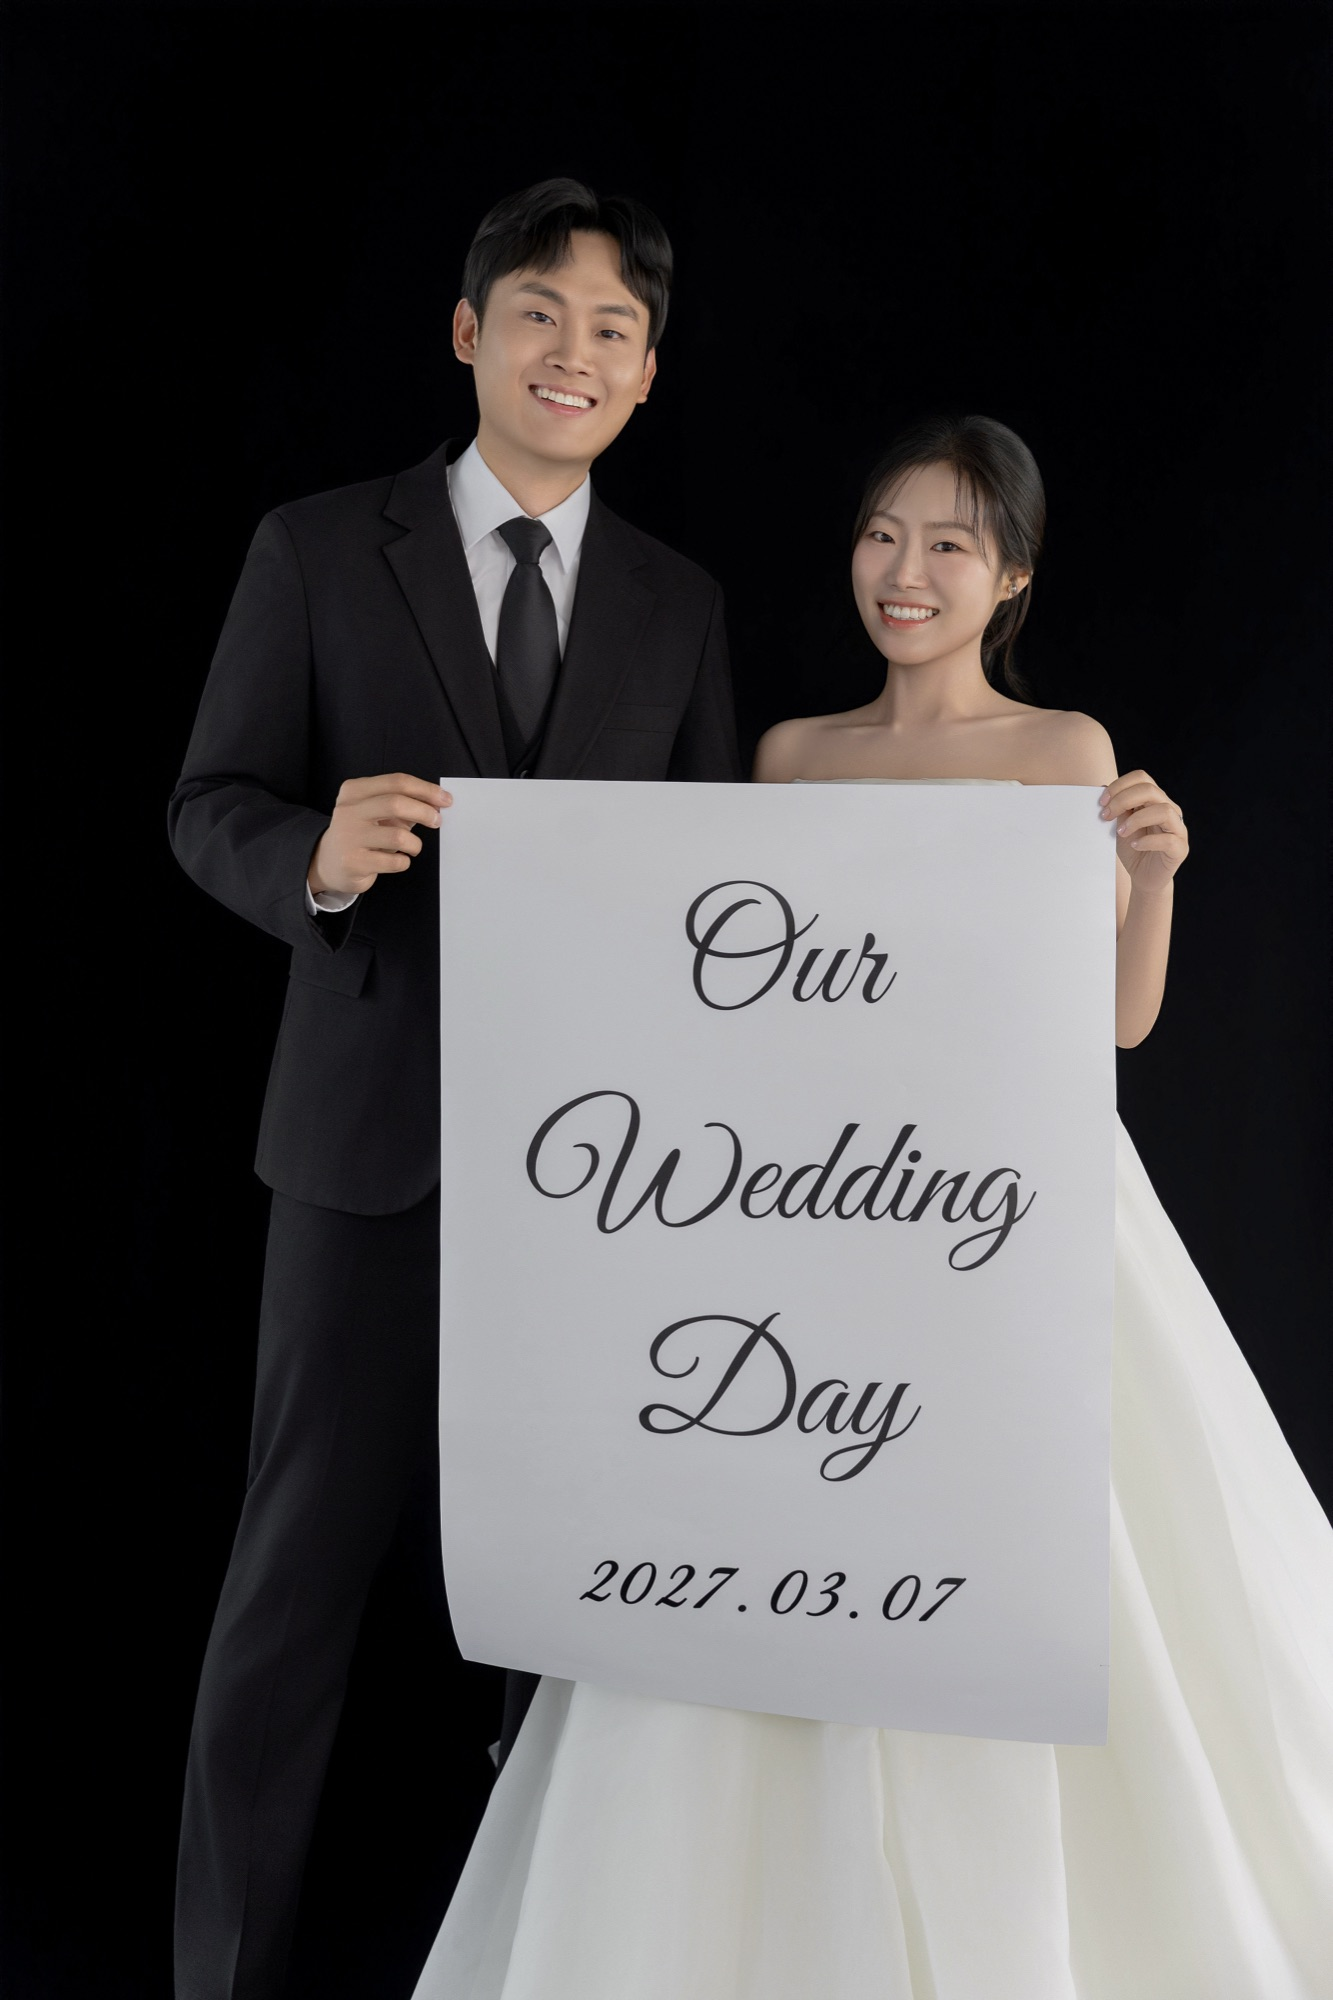
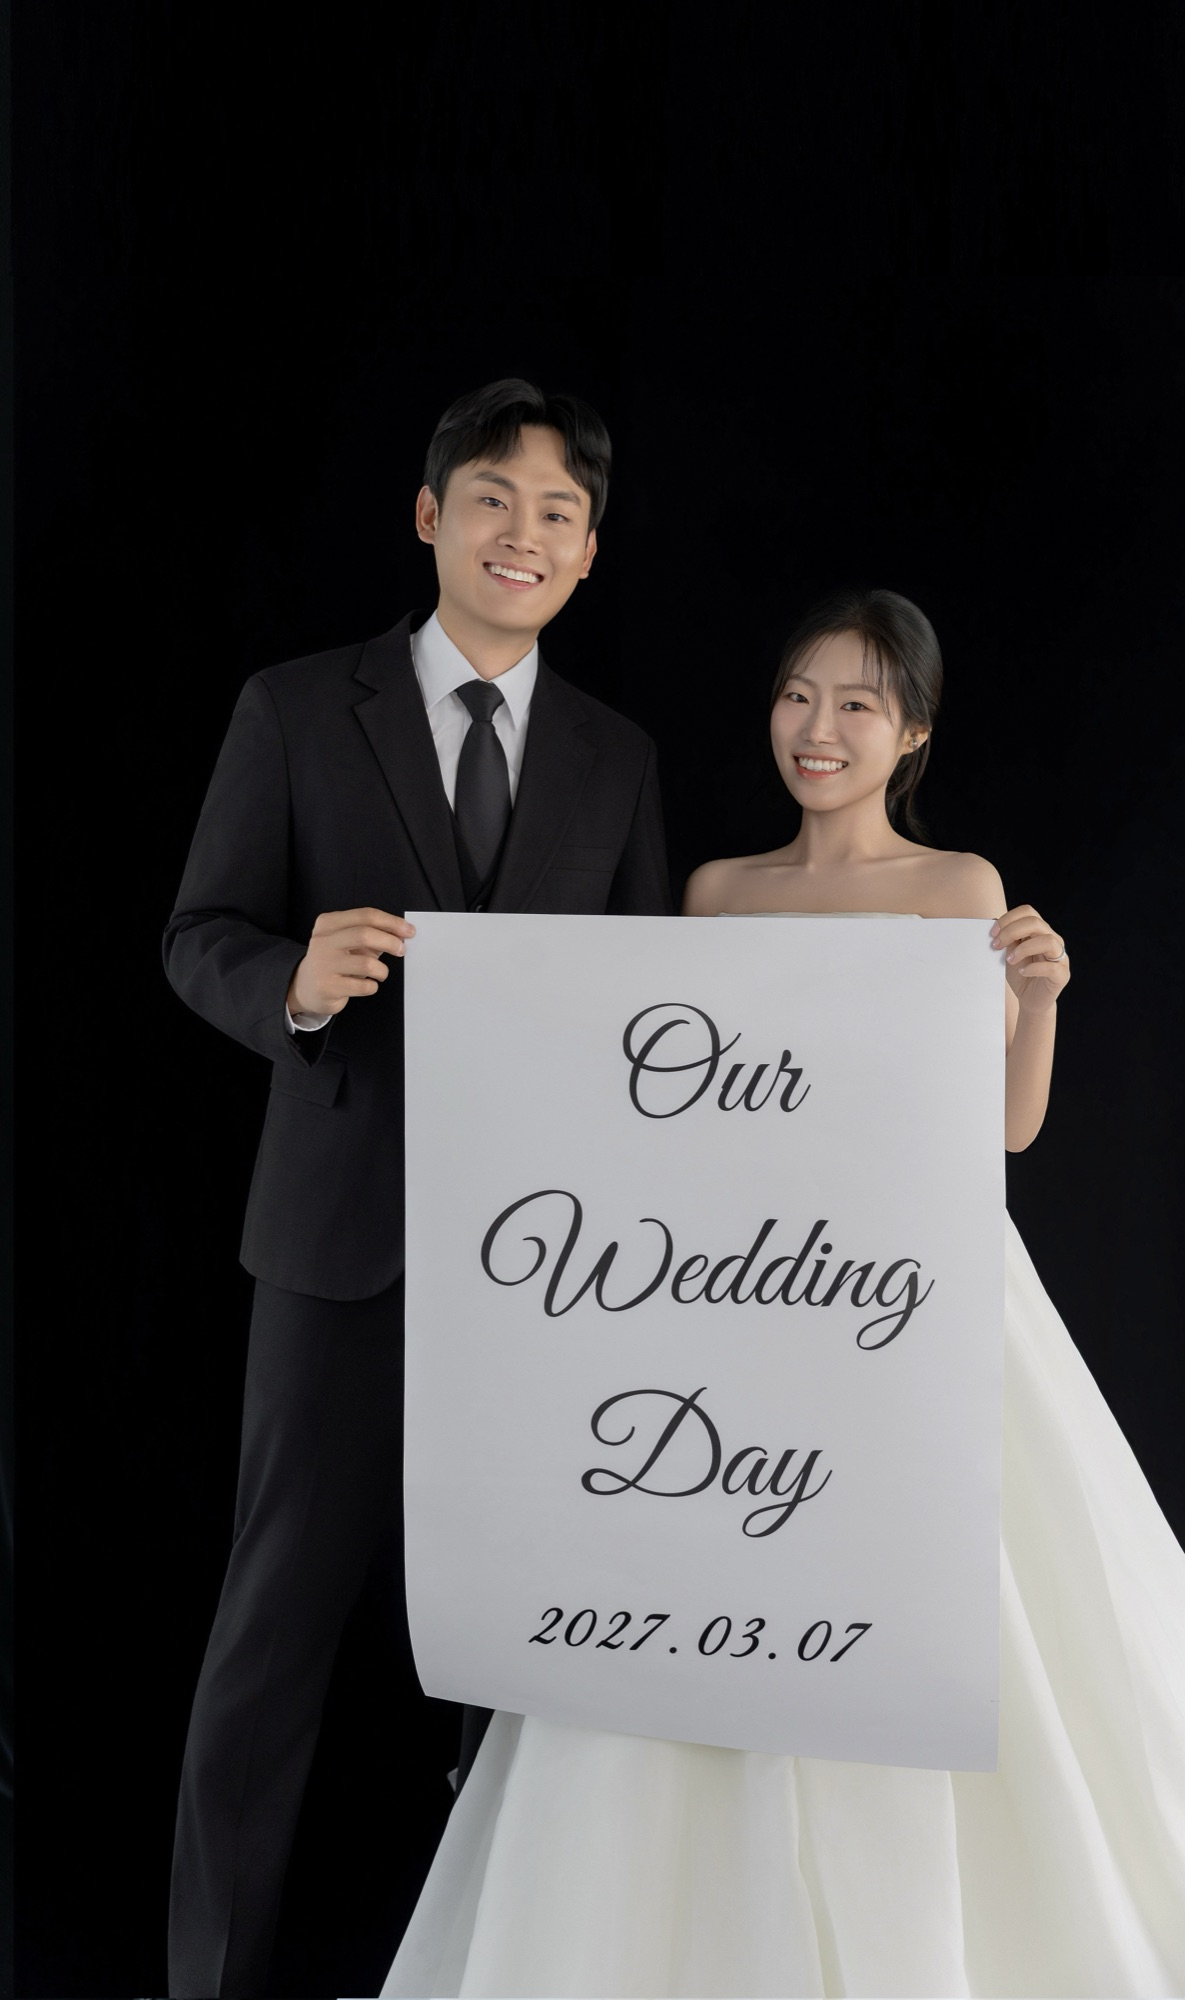
v1.7

diff --git a/styles.css b/styles.css
@@ -453,69 +453,104 @@ a {
 /* ═══════════════════════════════════════════
    Hero Section
    ═══════════════════════════════════════════ */
+/* 커버: 다른 섹션과 같은 배경 + 아치형 사진 */
 .hero {
   position: relative;
   /* svh: 주소창이 보이는 상태 기준 높이 → 스크롤 시 높이가 출렁이지 않음 */
   min-height: 100vh;
   min-height: 100svh;
   display: flex;
+  padding: 0;
+  background:
+    radial-gradient(ellipse 300px 200px at 10% 20%, rgba(139,158,126,0.08) 0%, transparent 70%),
+    radial-gradient(ellipse 250px 180px at 90% 80%, rgba(139,158,126,0.06) 0%, transparent 70%),
+    var(--color-warm-white);
+  overflow: hidden;
+  /* 밝은 배경이라 흰 글자 대신 섹션 제목과 같은 짙은 초록 */
+  color: var(--color-forest);
+}
+
+.hero__card {
+  position: relative;
+  width: 100%;
+  max-width: 400px;                /* 기준 폭 약 400px, 가운데 정렬 */
+  margin: 0 auto;
+  display: flex;
   flex-direction: column;
   align-items: center;
-  justify-content: flex-end;
-  padding: 0;
-  overflow: hidden;
-  background-color: var(--color-forest-dark);
+  justify-content: flex-start;
+  padding: var(--safe-top) var(--safe-right) var(--safe-bottom) var(--safe-left);
+}
+
+/* 남는 세로 공간은 위(제목 영역) 1 : 아래 2로 나눔 → 아래 공백 몫 */
+.hero__card::after {
+  content: '';
+  flex: 2 1 0;
+}
+
+/* 마루부리 굵은 글꼴: 네이버 CSS는 'MaruBuriBold'라는 별도 이름으로만 제공하므로
+   'MaruBuri' + font-weight 700 으로도 진짜 Bold 파일이 쓰이도록 연결 (가짜 굵기 방지) */
+@font-face {
+  font-family: 'MaruBuri';
+  font-weight: 700;
+  font-display: swap;
+  src: url(https://hangeul.pstatic.net/hangeul_static/webfont/MaruBuri/MaruBuri-Bold.woff2) format('woff2'),
+       url(https://hangeul.pstatic.net/hangeul_static/webfont/MaruBuri/MaruBuri-Bold.woff) format('woff');
+}
+
+/* 2. 타이틀 */
+.hero__title {
+  /* 'Happy Time'은 글꼴 파일이 없어 현재는 마루부리(네이버 CDN)로 표시됨 */
+  font-family: 'Happy Time', 'MaruBuri', serif;
+  font-style: italic;
+  font-size: 14px;
+  font-weight: 700;
+  letter-spacing: 0.6em;
+  text-indent: 0.6em;   /* 마지막 글자 뒤 간격만큼 앞을 밀어 가운데 정렬 보정 */
+  line-height: 1.3;
+  text-align: center;
+  white-space: nowrap;
+  /* 제목 영역 = 히어로 맨 위 ~ 아치형 사진 맨 위.
+     이 영역 세로 가운데에 글자를 두어, 항상 두 지점의 정확히 중간에 위치 */
+  flex: 1 1 0;
+  min-height: 6.5rem;         /* 제목 영역 최소 높이 (휴대폰에서는 보통 이 값이 적용됨) */
+  width: 100%;
+  display: flex;
+  align-items: center;
+  justify-content: center;
+}
+
+/* 3. 아치형 사진 */
+.hero__figure {
+  position: relative;
+  width: 100%;
+  display: flex;
+  justify-content: center;
 }
 
 .hero__photo {
-  position: absolute;
-  inset: 0;
-  width: 100%;
-  height: 100%;
-  object-fit: cover;
-  object-position: center 30%;
+  display: block;
+  width: 85%;
+  /* 항상 사진 파일의 원본 비율 그대로 (자르거나 늘리지 않음).
+     auto 2/3: 사진을 불러오기 전에만 2:3으로 자리를 잡아 두고, 불러온 뒤엔 실제 비율 사용 */
+  height: auto;
+  aspect-ratio: auto 2 / 3;
+  /* 위쪽 반원 + 아래 직각. 아주 큰 값을 주면 브라우저가 폭의 절반으로 줄여 적용하므로
+     사진 비율이 바뀌어도 항상 정확한 반원이 됨 */
+  border-radius: 9999px 9999px 0 0;
+  background: rgba(255, 255, 255, 0.15);
 }
 
-/* 상단 좌·우 작은 문구 */
-.hero__top {
-  position: absolute;
-  top: calc(1rem + var(--safe-top));
-  left: calc(var(--gutter) + var(--safe-left));
-  right: calc(var(--gutter) + var(--safe-right));
-  z-index: 2;
-  display: flex;
-  justify-content: flex-end;   /* 우측 상단 정렬 */
-  font-family: var(--font-square);
-  font-size: 0.9375rem;
-  font-weight: 300;
-  letter-spacing: 2px;
-  line-height: 1.6;
-  color: var(--color-white);
-  text-shadow: 0 1px 6px rgba(0, 0, 0, 0.35);
-  pointer-events: none;
-  /* 스크롤 감지(IntersectionObserver) 대신 로드 시 바로 나타나는 애니메이션.
-     화면 맨 위에 붙어 있어 감지 방식은 기기에 따라 끝까지 안 보일 수 있음 */
-  animation: hero-top-in 0.8s ease 0.2s both;
+/* 5. 하단 정보 */
+.hero__info {
+  margin-top: 30px;
+  font-family: var(--font-serif);   /* 인사말과 같은 글꼴 (Noto Serif KR) */
+  font-size: 1rem;            /* 16px */
+  font-weight: 500;
+  line-height: 1.9;
+  text-align: center;
+  padding: 0 var(--gutter);
 }
-
-/* 세로쓰기: 줄(우영 / 정원 / 결혼합니다)이 왼쪽→오른쪽 세로 열로 배치 */
-.hero__top-text {
-  writing-mode: vertical-lr;
-  text-orientation: upright;
-  letter-spacing: 4px;
-  line-height: 1.9;   /* 열 사이 간격 */
-}
-
-@keyframes hero-top-in {
-  from { opacity: 0; transform: translateY(-8px); }
-  to   { opacity: 1; transform: none; }
-}
-
-@media (prefers-reduced-motion: reduce) {
-  .hero__top { animation: none; }
-}
-
-
 
 /* ─── Countdown ─── */
 /* 예식 일정 섹션의 달력 아래에 표시 (밝은 배경용 색) */
@@ -1258,10 +1293,6 @@ a {
     min-height: 100vh;
   }
 
-  .hero {
-    min-height: 100vh;
-  }
-
   .section__inner {
     max-width: 440px;
   }
@@ -1631,10 +1662,6 @@ body.has-action-bar .toast {
 @media (orientation: landscape) and (max-height: 500px) {
   :root {
     --action-bar-h: 3.875rem;
-  }
-
-  .hero__photo {
-    object-position: center 25%;
   }
 
   .action-bar {

diff --git a/index.html b/index.html
@@ -23,6 +23,7 @@
   <link rel="preconnect" href="https://fonts.gstatic.com" crossorigin>
   <link href="https://fonts.googleapis.com/css2?family=Noto+Serif+KR:wght@200;300;400;500;600;700&family=Noto+Sans+KR:wght@300;400;500;600&display=swap" rel="stylesheet">
   <link href="https://cdn.jsdelivr.net/gh/moonspam/NanumSquare@2.0/nanumsquare.css" rel="stylesheet">
+  <link href="https://hangeul.pstatic.net/hangeul_static/css/maru-buri.css" rel="stylesheet">
 
   <link rel="stylesheet" href="styles.css">
   <script src="config.js"></script>
@@ -68,11 +69,18 @@
 
     <!-- ─── Hero Section ─── -->
     <section class="section hero" id="hero">
-      <img class="hero__photo" id="heroPhoto" src="" alt="웨딩 사진" loading="eager">
-      <div class="hero__top">
-        <p class="hero__top-text">우영<br>정원<br>결혼합니다</p>
-      </div>
+      <div class="hero__card">
+        <h1 class="hero__title">WEDDING INVITATION</h1>
 
+        <div class="hero__figure">
+          <img class="hero__photo" id="heroPhoto" src="" alt="웨딩 사진" loading="eager">
+        </div>
+
+        <p class="hero__info">
+          <span id="heroDate"></span><br>
+          <span id="heroVenue"></span>
+        </p>
+      </div>
     </section>
 
     <!-- ─── Leaf Divider ─── -->

diff --git a/script.js b/script.js
@@ -293,6 +293,19 @@
 
   function initHero() {
     $('#heroPhoto').src = 'images/hero/1.jpg';
+    $('#heroDate').textContent = formatHeroDate(CONFIG.wedding.date, CONFIG.wedding.time);
+    $('#heroVenue').textContent = [CONFIG.wedding.venue, CONFIG.wedding.hall].filter(Boolean).join(' ');
+  }
+
+  /** 첫 화면용 날짜: "2027년 03월 07일 일요일 낮 12시" / "… 오전 10시30분" */
+  function formatHeroDate(dateStr, timeStr) {
+    const d = new Date(`${dateStr}T${timeStr}:00`);
+    const days = ['일', '월', '화', '수', '목', '금', '토'];
+    const pad = (n) => String(n).padStart(2, '0');
+    const h = d.getHours();
+    const period = h < 12 ? '오전' : h === 12 ? '낮' : '오후';
+    const min = d.getMinutes() ? `${d.getMinutes()}분` : '';
+    return `${d.getFullYear()}년 ${pad(d.getMonth() + 1)}월 ${pad(d.getDate())}일 ${days[d.getDay()]}요일 ${period} ${h % 12 || 12}시${min}`;
   }
 
   /* ═══════════════════════════════════════════
